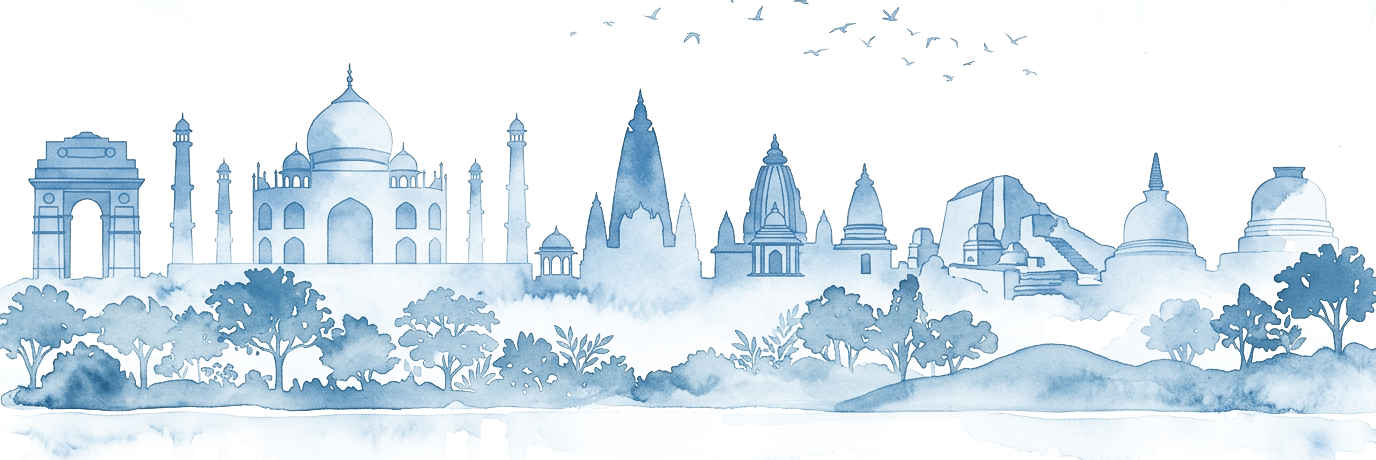
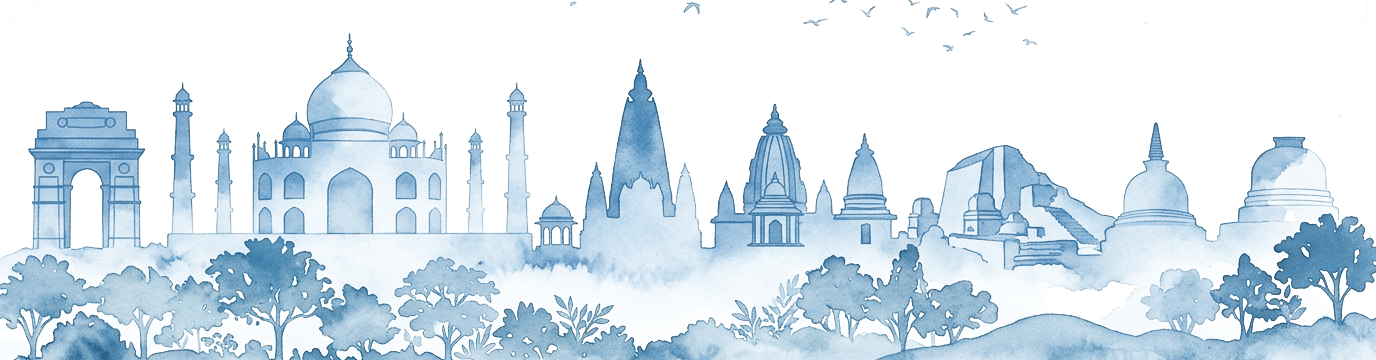
fix(website): adjust watermark vertical bounds, height to 360px, and opacity to 0.42 to display full monuments horizon

diff --git a/website/components/AccountProfileScreen.tsx b/website/components/AccountProfileScreen.tsx
@@ -480,12 +480,14 @@ export default function AccountProfileScreen() {
             left: 0,
             right: 0,
             width: "100%",
-            height: "215px",
+            height: isMobile ? "240px" : "360px",
             pointerEvents: "none",
             zIndex: 0,
             display: "flex",
             alignItems: "flex-end",
             overflow: "hidden",
+            maskImage: "linear-gradient(to top, rgba(0,0,0,1) 80%, rgba(0,0,0,0) 100%)",
+            WebkitMaskImage: "linear-gradient(to top, rgba(0,0,0,1) 80%, rgba(0,0,0,0) 100%)",
           }}
         >
           <img
@@ -506,12 +508,12 @@ export default function AccountProfileScreen() {
               objectPosition: "center bottom",
               display: "block",
               pointerEvents: "none",
-              opacity: 0.88,
+              opacity: 0.42,
             }}
           />
         </div>
       ) : (
-        <View style={styles.nativeSkyline} pointerEvents="none">
+        <View style={[styles.nativeSkyline, { height: isMobile ? 240 : 360 }]} pointerEvents="none">
           <Image source={skylineWatermarkAsset} style={styles.nativeSkylineImg} resizeMode="cover" />
         </View>
       )}
@@ -836,12 +838,12 @@ const styles = StyleSheet.create({
     bottom: 0,
     left: 0,
     right: 0,
-    height: 215,
+    height: 360,
     zIndex: 0,
   },
   nativeSkylineImg: {
     width: "100%",
     height: "100%",
-    opacity: 0.88,
+    opacity: 0.42,
   },
 });
